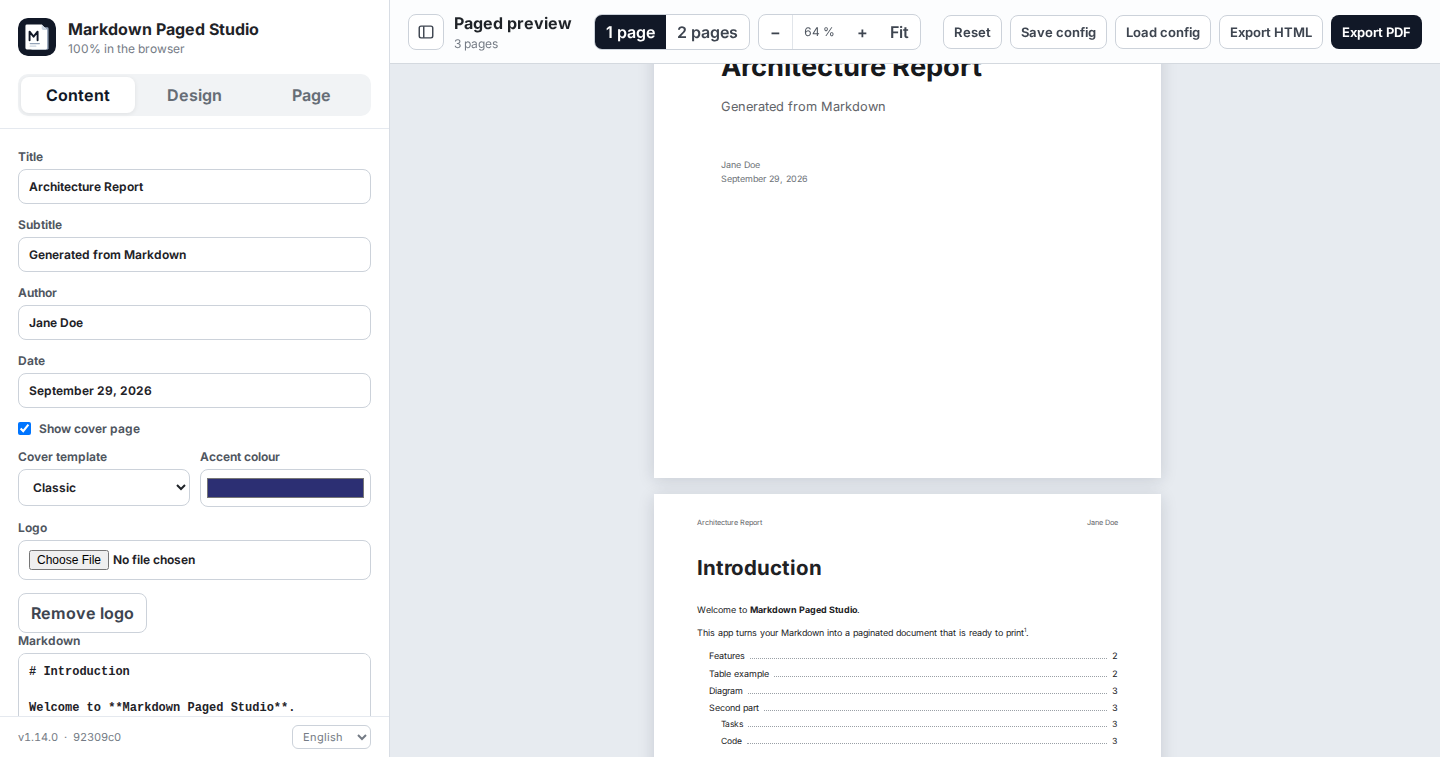
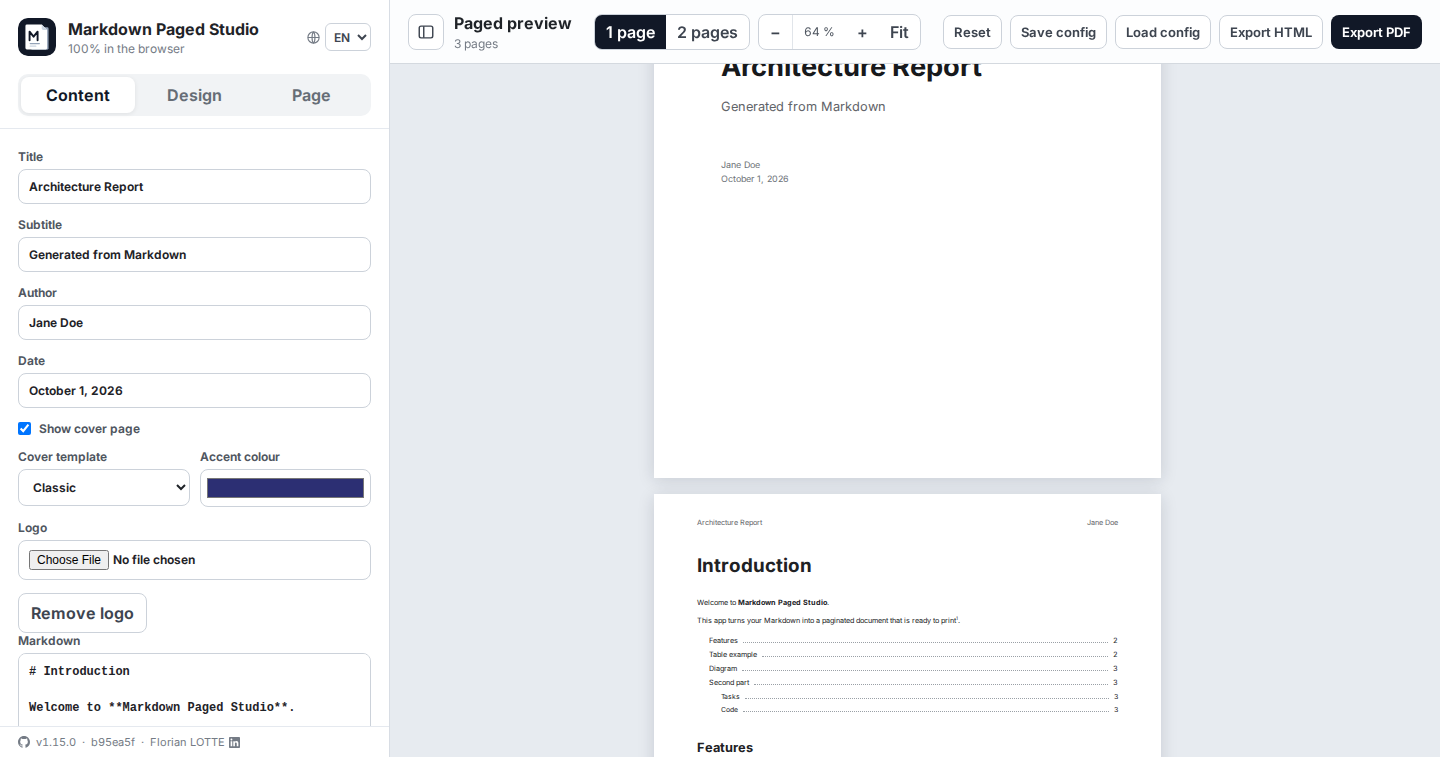
Smaller default stylesheet, author and GitHub links, language selector in the header; release 1.15.1
- Default stylesheet: body 8.5 pt / 1.45, headings 22, 15 and 11 pt
- Sidebar footer on one line: GitHub mark linking to the repository,
  version, commit, and the author's name linked to his LinkedIn profile
  with its mark
- The interface language selector moves to the fixed header of the
  sidebar (globe and short code), visible on every tab and in the drawer
- Tests and screenshots updated; changelog

Claude-Session: https://claude.ai/code/session_01STSDbq3HEnZxaWFSqkVjJ7

diff --git a/index.html b/index.html
@@ -19,6 +19,18 @@
             <div class="brand">
               <img class="brand-mark" src="/src/assets/logo.svg" alt="" width="38" height="38" />
               <div><strong>Markdown Paged Studio</strong><span>100% in the browser</span></div>
+              <label class="language-switch" title="Interface language">
+                <svg viewBox="0 0 20 20" width="15" height="15" aria-hidden="true" focusable="false">
+                  <circle cx="10" cy="10" r="7.5" fill="none" stroke="currentColor" stroke-width="1.5" />
+                  <path
+                    d="M2.5 10h15M10 2.5c-2.6 2.4-2.6 12.6 0 15M10 2.5c2.6 2.4 2.6 12.6 0 15"
+                    fill="none"
+                    stroke="currentColor"
+                    stroke-width="1.5"
+                  />
+                </svg>
+                <select id="uiLanguage" aria-label="Interface language"></select>
+              </label>
               <button
                 id="closeSidebar"
                 class="icon-button sidebar-close"
@@ -192,10 +204,40 @@
           </div>
 
           <footer class="sidebar-footer">
+            <a
+              id="appRepository"
+              class="sidebar-mark"
+              target="_blank"
+              rel="noopener"
+              title="Source code on GitHub"
+              aria-label="Source code on GitHub"
+            >
+              <svg viewBox="0 0 16 16" width="12" height="12" aria-hidden="true" focusable="false">
+                <path
+                  fill="currentColor"
+                  d="M8 0C3.58 0 0 3.58 0 8c0 3.54 2.29 6.53 5.47 7.59.4.07.55-.17.55-.38 0-.19-.01-.82-.01-1.49-2.01.37-2.53-.49-2.69-.94-.09-.23-.48-.94-.82-1.13-.28-.15-.68-.52-.01-.53.63-.01 1.08.58 1.23.82.72 1.21 1.87.87 2.33.66.07-.52.28-.87.51-1.07-1.78-.2-3.64-.89-3.64-3.95 0-.87.31-1.59.82-2.15-.08-.2-.36-1.02.08-2.12 0 0 .67-.21 2.2.82.64-.18 1.32-.27 2-.27.68 0 1.36.09 2 .27 1.53-1.04 2.2-.82 2.2-.82.44 1.1.16 1.92.08 2.12.51.56.82 1.27.82 2.15 0 3.07-1.87 3.75-3.65 3.95.29.25.54.73.54 1.48 0 1.07-.01 1.93-.01 2.2 0 .21.15.46.55.38A8.01 8.01 0 0 0 16 8c0-4.42-3.58-8-8-8z"
+                />
+              </svg>
+            </a>
             <a id="appVersion" target="_blank" rel="noopener" title="Release notes"></a>
             <span id="appCommitSeparator" aria-hidden="true" hidden>·</span>
             <a id="appCommit" target="_blank" rel="noopener" title="Commit this build was made from" hidden></a>
-            <select id="uiLanguage" class="language-select" aria-label="Interface language"></select>
+            <span aria-hidden="true">·</span>
+            <a
+              class="sidebar-author"
+              href="https://www.linkedin.com/in/florianlotte"
+              target="_blank"
+              rel="noopener"
+              title="Florian LOTTE on LinkedIn"
+              aria-label="Florian LOTTE on LinkedIn"
+              >Florian LOTTE
+              <svg viewBox="0 0 24 24" width="11" height="11" aria-hidden="true" focusable="false">
+                <path
+                  fill="currentColor"
+                  d="M20.45 20.45h-3.56v-5.57c0-1.33-.02-3.04-1.85-3.04-1.85 0-2.14 1.45-2.14 2.94v5.67H9.35V9h3.41v1.56h.05a3.74 3.74 0 0 1 3.37-1.85c3.6 0 4.27 2.37 4.27 5.46v6.28zM5.34 7.43a2.06 2.06 0 1 1 0-4.13 2.06 2.06 0 0 1 0 4.13zM7.12 20.45H3.56V9h3.56v11.45zM22.22 0H1.77C.79 0 0 .77 0 1.73v20.54C0 23.23.79 24 1.77 24h20.45c.98 0 1.78-.77 1.78-1.73V1.73C24 .77 23.2 0 22.22 0z"
+                />
+              </svg>
+            </a>
           </footer>
         </aside>
 

diff --git a/tests/studio-features.spec.js b/tests/studio-features.spec.js
@@ -218,7 +218,9 @@ test('footnotes go to the foot of the page that calls them, task lists show chec
   ].join('\n\n');
   await openDocument(page, markdown, 'Notes');
   await page.locator('#cover').uncheck();
-  await expect(status(page)).toHaveText('3 pages');
+  await expect(page.locator('#preview .cover-page')).toHaveCount(0);
+  await expect(page.locator('#preview')).not.toHaveClass(/is-stale/);
+  await expect(status(page)).toHaveText(/^[2-9] pages$/);
 
   // Where the calls and the notes are, page by page, with the numbers Paged.js gives them.
   const layout = target =>
@@ -231,12 +233,18 @@ test('footnotes go to the foot of the page that calls them, task lists show chec
         again: [...sheet.querySelectorAll('.footnote-ref')].map(ref => ref.textContent),
       })),
     );
-  const expected = [
-    { calls: 3, notes: ['The first note.', 'The second note.', 'Written in place.'], again: ['1'] },
-    { calls: 0, notes: [], again: [] },
-    { calls: 1, notes: ['A note on a later page.'], again: [] },
-  ];
-  expect(await layout(page.locator('#preview'))).toEqual(expected);
+  // First page: the three calls and their notes; last page: the fourth; nothing in between.
+  const check = result => {
+    expect(result[0]).toEqual({
+      calls: 3,
+      notes: ['The first note.', 'The second note.', 'Written in place.'],
+      again: ['1'],
+    });
+    expect(result.at(-1)).toEqual({ calls: 1, notes: ['A note on a later page.'], again: [] });
+    expect(result.slice(1, -1)).toEqual(result.slice(1, -1).map(() => ({ calls: 0, notes: [], again: [] })));
+  };
+  const expected = await layout(page.locator('#preview'));
+  check(expected);
 
   // The notes sit inside the sheet, under the text and above the footer of the page.
   const first = pages(page).first();
@@ -269,6 +277,6 @@ test('footnotes go to the foot of the page that calls them, task lists show chec
   const [download] = await Promise.all([page.waitForEvent('download'), page.locator('#exportHtml').click()]);
   const exported = await context.newPage();
   await exported.setContent(readFileSync(await download.path(), 'utf8'));
-  await expect(exported.locator('.pagedjs_page')).toHaveCount(3);
+  await expect(exported.locator('.pagedjs_page')).toHaveCount(expected.length);
   expect(await layout(exported.locator('body'))).toEqual(expected);
 });

diff --git a/tests/studio-layout.spec.js b/tests/studio-layout.spec.js
@@ -143,6 +143,11 @@ test('on a phone the settings are a closed drawer and the preview fits the scree
   expect(drawer.width).toBe(390);
   await expect(page.locator('#title')).toBeVisible();
   await expect(page.locator('#closeSidebar')).toBeVisible();
+  // The language selector shares the header line with the close button, without overlapping it.
+  await expect(page.locator('#uiLanguage')).toBeVisible();
+  const language = await page.locator('.language-switch').boundingBox();
+  const close = await page.locator('#closeSidebar').boundingBox();
+  expect(language.x + language.width).toBeLessThanOrEqual(close.x);
 
   await page.locator('#closeSidebar').click();
   await expect(sidebar).toBeHidden();
@@ -155,6 +160,20 @@ test('the sidebar footer shows the running version and stays at the bottom', asy
   await openFreshStudio(page);
   const footer = page.locator('.sidebar-footer');
   await expect(footer).toBeVisible();
+  // The GitHub mark in front of the version leads to the repository.
+  const repository = footer.locator('#appRepository');
+  await expect(repository).toHaveAttribute('href', 'https://github.com/florianlotte/markdown-paged-studio');
+  await expect(repository).toHaveAttribute('target', '_blank');
+  await expect(repository.locator('svg')).toHaveCount(1);
+  // The author on the same line as the version: the name is the link, opening outside the studio.
+  const author = footer.locator('a.sidebar-author');
+  await expect(author).toHaveText(/^\s*Florian LOTTE\s*$/);
+  await expect(author.locator('svg')).toHaveCount(1);
+  await expect(author).toHaveAttribute('href', 'https://www.linkedin.com/in/florianlotte');
+  await expect(author).toHaveAttribute('target', '_blank');
+  await expect(author).toHaveAttribute('rel', 'noopener');
+  expect((await footer.boundingBox()).height).toBeLessThan(40);
+  await expect(footer.locator('select')).toHaveCount(0);
   await expect(page.locator('#appVersion')).toHaveText(`v${version}`);
   await expect(page.locator('#appVersion')).toHaveAttribute(
     'href',

diff --git a/src/ui.js b/src/ui.js
@@ -19,7 +19,7 @@ import {
 } from './images.js';
 import { currentLanguage, LANGUAGES, onLanguageChange, setLanguage, t } from './i18n.js';
 import { scheduleRender } from './render.js';
-import { APP_COMMIT, APP_VERSION, COMMIT_URL, RELEASE_URL } from './version.js';
+import { APP_COMMIT, APP_VERSION, COMMIT_URL, RELEASE_URL, REPOSITORY_URL } from './version.js';
 import { applyView, toggleSidebar } from './view.js';
 
 // Every state key has a form control with the same id, except the logo (a file input).
@@ -250,6 +250,7 @@ function bindPdf() {
 
 // Sidebar footer: the version links to its release, the commit (when known) to the commit itself.
 function showVersion() {
+  document.getElementById('appRepository').href = REPOSITORY_URL;
   const version = document.getElementById('appVersion');
   version.textContent = `v${APP_VERSION}`;
   version.href = RELEASE_URL;
@@ -427,7 +428,12 @@ function bindPreviewLinks() {
 // Footer selector of the interface language. What was written through t() is rebuilt on a change.
 function bindLanguage() {
   const select = document.getElementById('uiLanguage');
-  select.replaceChildren(...Object.entries(LANGUAGES).map(([value, label]) => new Option(label, value)));
+  // Short codes keep the control small; the full name is the tooltip of each option.
+  select.replaceChildren(
+    ...Object.entries(LANGUAGES).map(([value, label]) =>
+      Object.assign(new Option(value.toUpperCase(), value), { title: label }),
+    ),
+  );
   select.value = currentLanguage();
   select.addEventListener('change', () => setLanguage(select.value));
   onLanguageChange(() => {

diff --git a/src/ui.css b/src/ui.css
@@ -70,13 +70,47 @@ button {
   color: #747b85;
   font-variant-numeric: tabular-nums;
 }
-.sidebar-footer .language-select {
-  width: auto;
+/* The GitHub mark in front of the version: same grey, GitHub black on hover. */
+.sidebar-footer .sidebar-mark {
+  display: inline-flex;
+  align-items: center;
+}
+.sidebar-footer a.sidebar-mark[href]:hover {
+  color: #24292f;
+}
+/* The author: as quiet as the version, the link (with its LinkedIn mark) shows itself on hover. */
+.sidebar-footer .sidebar-author {
+  display: inline-flex;
+  align-items: center;
+  gap: 4px;
+  text-decoration: underline;
+  text-decoration-color: transparent;
+  text-underline-offset: 2px;
+  transition: text-decoration-color 0.15s ease;
+}
+.sidebar-footer a.sidebar-author[href]:hover {
+  color: #0a66c2;
+  text-decoration-color: currentColor;
+}
+/* Interface language, in the fixed header of the sidebar: a globe and the short code of the language. */
+.language-switch {
+  display: inline-flex;
+  align-items: center;
+  gap: 4px;
   margin: 0 0 0 auto;
-  padding: 3px 6px;
+  color: #747b85;
+  flex-shrink: 0;
+}
+.language-switch select {
+  width: auto;
+  height: 28px;
+  margin: 0;
+  padding: 0 4px;
   border-radius: 6px;
-  font-size: 11px;
-  color: inherit;
+  font-size: 12px;
+  font-weight: 600;
+  color: #3e4550;
+  cursor: pointer;
 }
 .sidebar-footer a {
   color: inherit;

diff --git a/tests/studio-language.spec.js b/tests/studio-language.spec.js
@@ -7,6 +7,12 @@ test('the interface switches to French and back, and remembers the choice', asyn
   await openFreshStudio(page);
   const language = page.locator('#uiLanguage');
   await expect(language).toHaveValue('en');
+  // In the fixed header of the sidebar, shown as a short code, whatever the tab.
+  await expect(page.locator('.sidebar-header #uiLanguage')).toHaveCount(1);
+  await expect(language.locator('option')).toHaveText(['EN', 'FR']);
+  await page.getByRole('tab', { name: 'Design' }).click();
+  await expect(language).toBeVisible();
+  await page.getByRole('tab', { name: 'Content' }).click();
   await expect(page.locator('html')).toHaveAttribute('lang', 'en');
   await page.locator('#imageFiles').setInputFiles({ name: 'plan.png', mimeType: 'image/png', buffer: png(30, 20) });
   await expect(page.locator('#imageList button').first()).toHaveText('Insert');

diff --git a/src/config.js b/src/config.js
@@ -77,13 +77,13 @@ const DEFAULT_CSS = `
 .document-content {
   font-family: Inter, Arial, sans-serif;
   color: #202124;
-  font-size: 10.5pt;
-  line-height: 1.55;
+  font-size: 8.5pt;
+  line-height: 1.45;
   hyphens: auto;
 }
-.document-content h1 { font-size: 24pt; margin: 0 0 8mm; }
-.document-content h2 { font-size: 17pt; margin-top: 10mm; }
-.document-content h3 { font-size: 13pt; margin-top: 7mm; }
+.document-content h1 { font-size: 22pt; margin: 0 0 8mm; }
+.document-content h2 { font-size: 15pt; margin-top: 10mm; }
+.document-content h3 { font-size: 11pt; margin-top: 7mm; }
 .document-content table { width: 100%; border-collapse: collapse; }
 .document-content th,
 .document-content td { border: .2mm solid #d0d4da; padding: 2.5mm 3mm; text-align: left; }

diff --git a/src/i18n.js b/src/i18n.js
@@ -66,9 +66,11 @@ const TRANSLATIONS = {
     Pagination: 'Pagination',
     'The header, footer and': "L'en-tête, le pied de page et le compteur",
     'counter are computed by Paged.js.': 'sont calculés par Paged.js.',
+    'Source code on GitHub': 'Code source sur GitHub',
     'Release notes': 'Notes de version',
     'Commit this build was made from': 'Commit dont provient cette version',
     'Interface language': "Langue de l'interface",
+    'Florian LOTTE on LinkedIn': 'Florian LOTTE sur LinkedIn',
 
     // Toolbar
     'Hide sidebar': 'Masquer la barre latérale',

diff --git a/tests/studio-document.spec.js b/tests/studio-document.spec.js
@@ -36,7 +36,7 @@ test('edits re-render the document without leaking styles or render stages', asy
     await page.waitForTimeout(60);
   }
   await appendMarkdown(page, '\n\n## Extra section\n\n' + 'More text. '.repeat(400));
-  await expect(status(page)).toHaveText('5 pages');
+  await expect(status(page)).toHaveText('4 pages');
   await expect(page.locator('head style')).toHaveCount(stylesBefore);
   await expect(page.locator('.render-stage')).toHaveCount(0);
   await expect(page.locator('#preview .pagedjs_pages')).toHaveCount(1);

diff --git a/src/version.js b/src/version.js
@@ -5,5 +5,6 @@ const REPOSITORY = 'https://github.com/florianlotte/markdown-paged-studio';
 export const APP_VERSION = __APP_VERSION__;
 export const APP_COMMIT = import.meta.env.DEV ? 'dev' : __APP_COMMIT__;
 
+export const REPOSITORY_URL = REPOSITORY;
 export const RELEASE_URL = `${REPOSITORY}/releases/tag/v${APP_VERSION}`;
 export const COMMIT_URL = /^[0-9a-f]{7,40}$/.test(APP_COMMIT) ? `${REPOSITORY}/commit/${APP_COMMIT}` : null;

diff --git a/README.md b/README.md
@@ -243,11 +243,11 @@ Use print units (`mm`, `pt`) and paged-media properties such as `break-before: p
 
 Layout, zoom and the sidebar state are remembered in the browser, separately from the document.
 
-The footer of the sidebar shows which build is running, for example `v1.13.1 · 2205ce9`: the version links to its release notes and the commit to the exact source. It tells apart two deployments of the online demo made between two releases.
+The footer of the sidebar shows which build is running, for example `v1.13.1 · 2205ce9`: the version links to its release notes and the commit to the exact source. It tells apart two deployments of the online demo made between two releases. The GitHub mark in front of it leads to the repository, and the author's name next to it to his LinkedIn profile.
 
 ### Interface language
 
-The studio speaks English and French. It follows the language of the browser and the selector at the bottom of the sidebar changes it; the choice is remembered on that device. It is a setting of the studio, not of the document: the language of the document, which drives hyphenation and quotes, is set in the **Page** tab.
+The studio speaks English and French. It follows the language of the browser and the selector at the top of the sidebar, next to the logo, changes it; the choice is remembered on that device. It is a setting of the studio, not of the document: the language of the document, which drives hyphenation and quotes, is set in the **Page** tab.
 
 ![The studio in French](docs/screenshots/french.png)
 

diff --git a/CHANGELOG.md b/CHANGELOG.md
@@ -7,6 +7,20 @@ All notable changes to Markdown Paged Studio are listed here, newest first. The 
 
 ## [Unreleased]
 
+## [1.15.1] - 2026-10-01
+
+### Added
+
+- At the bottom of the sidebar, a GitHub mark linking to the repository in front of the version, and the
+  author's name, linked to his LinkedIn profile, next to it.
+
+### Changed
+
+- The language selector of the interface moves to the top of the sidebar, next to the logo, where it is
+  visible on every tab.
+- Default stylesheet: body text at 8.5 pt with a line height of 1.45 (was 10.5 pt and 1.55), headings at
+  22, 15 and 11 pt. It applies to new documents and after **Reset**; a saved document keeps its own CSS.
+
 ## [1.15.0] - 2026-09-29
 
 ### Added
@@ -241,7 +255,8 @@ All notable changes to Markdown Paged Studio are listed here, newest first. The 
 - Portable desktop app for Windows, Linux and macOS with direct PDF export.
 - Docker image, Playwright integration tests and CI.
 
-[Unreleased]: https://github.com/florianlotte/markdown-paged-studio/compare/v1.15.0...HEAD
+[Unreleased]: https://github.com/florianlotte/markdown-paged-studio/compare/v1.15.1...HEAD
+[1.15.1]: https://github.com/florianlotte/markdown-paged-studio/compare/v1.15.0...v1.15.1
 [1.15.0]: https://github.com/florianlotte/markdown-paged-studio/compare/v1.14.0...v1.15.0
 [1.14.0]: https://github.com/florianlotte/markdown-paged-studio/compare/v1.13.2...v1.14.0
 [1.13.2]: https://github.com/florianlotte/markdown-paged-studio/compare/v1.13.1...v1.13.2
